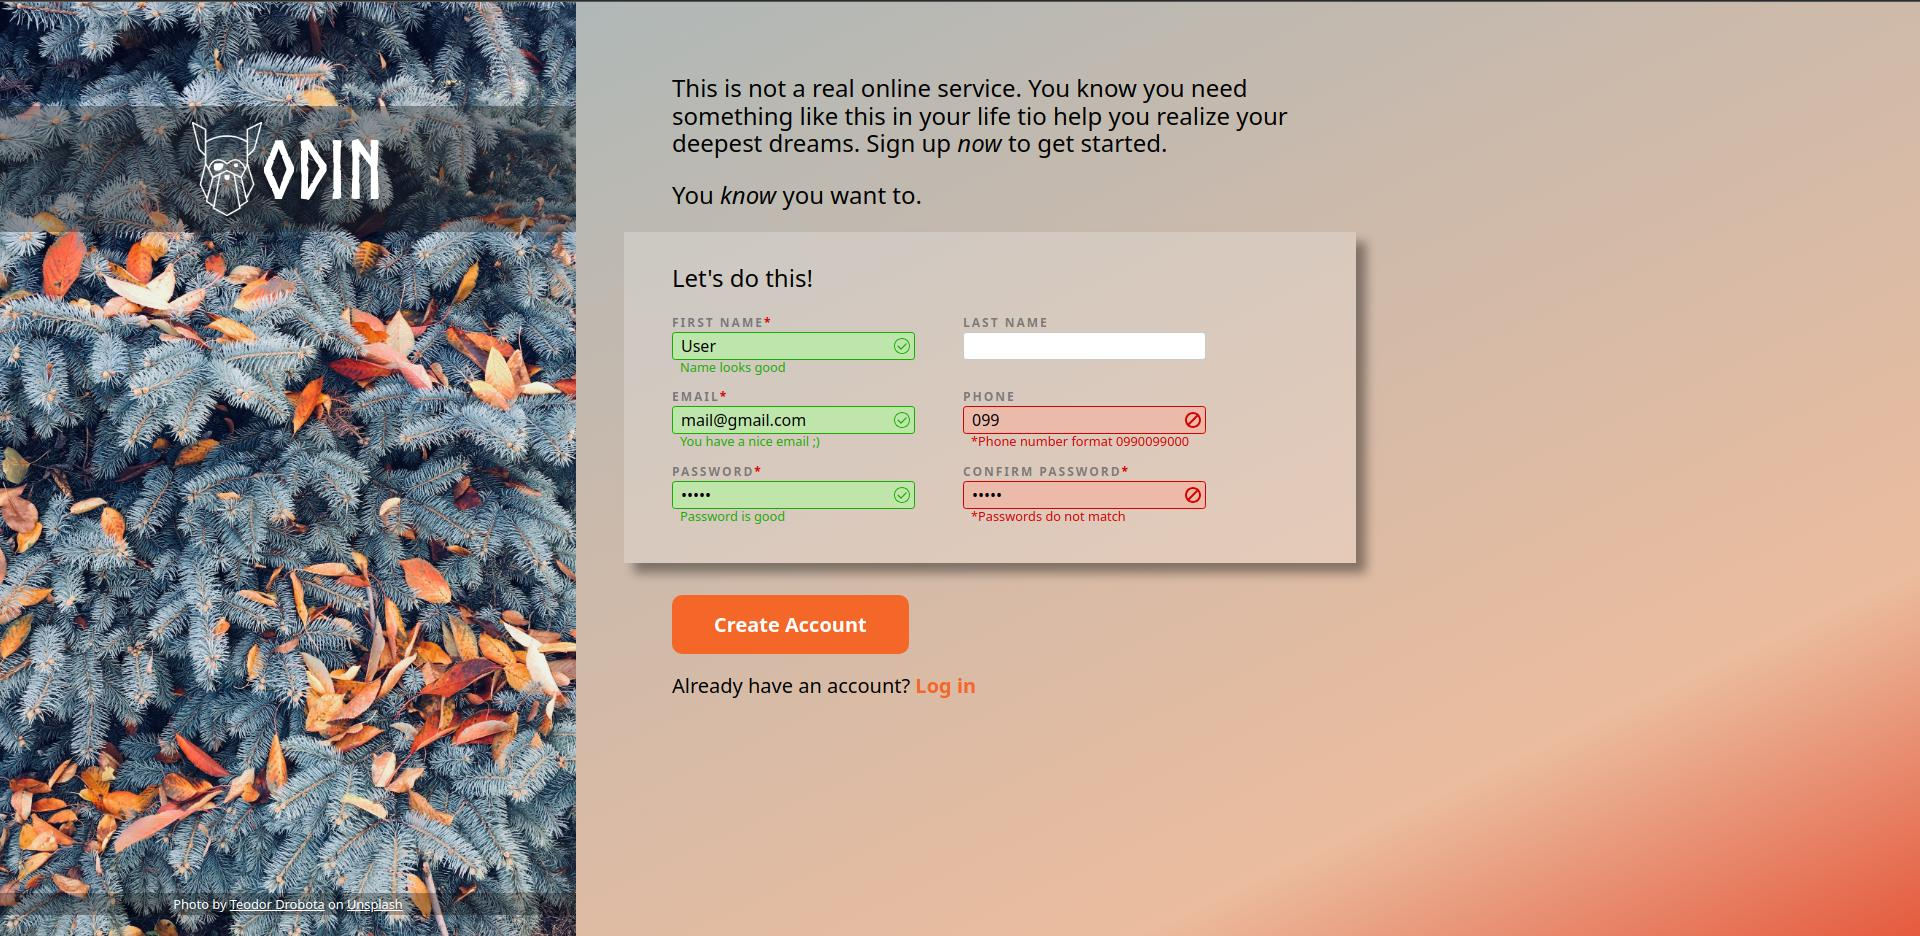
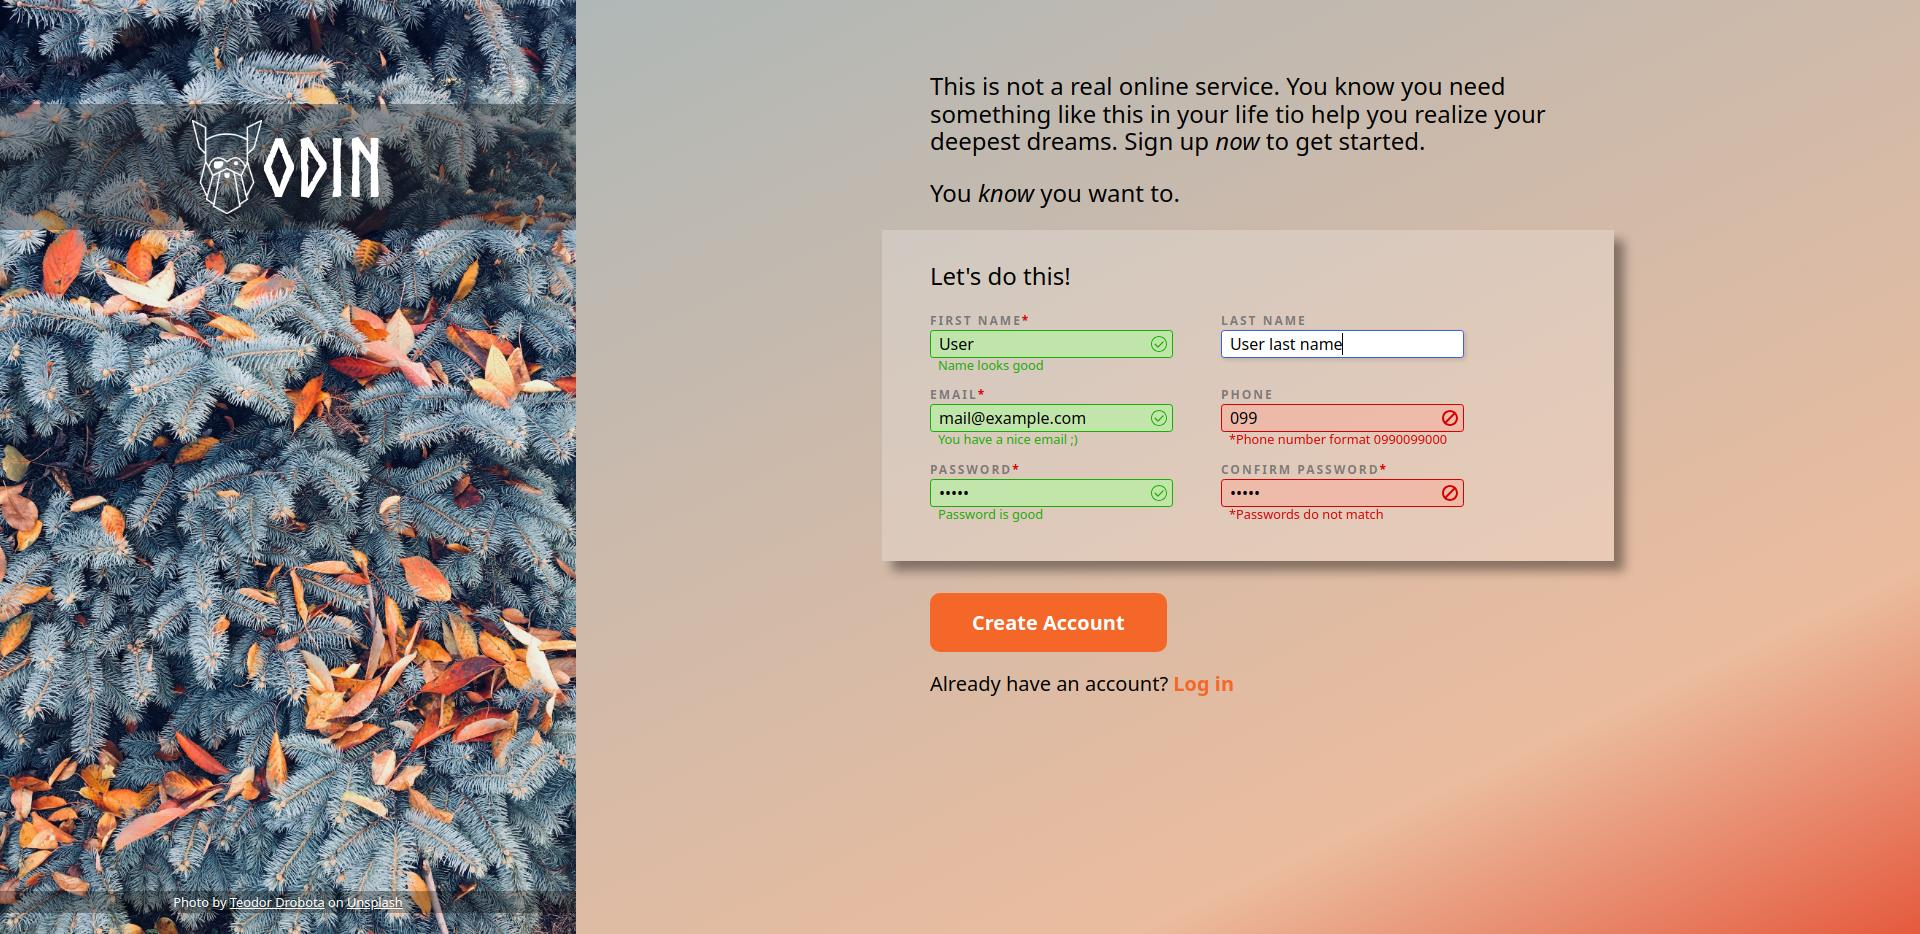
feat: styles fixes

diff --git a/style.css b/style.css
@@ -464,8 +464,8 @@ p {
 
 .form-side {
   padding-top: 3rem;
-  padding-left: 3rem;
   width: min(80ch, 100%);
+  margin: 0 auto;
 }
 
 .form-container {
